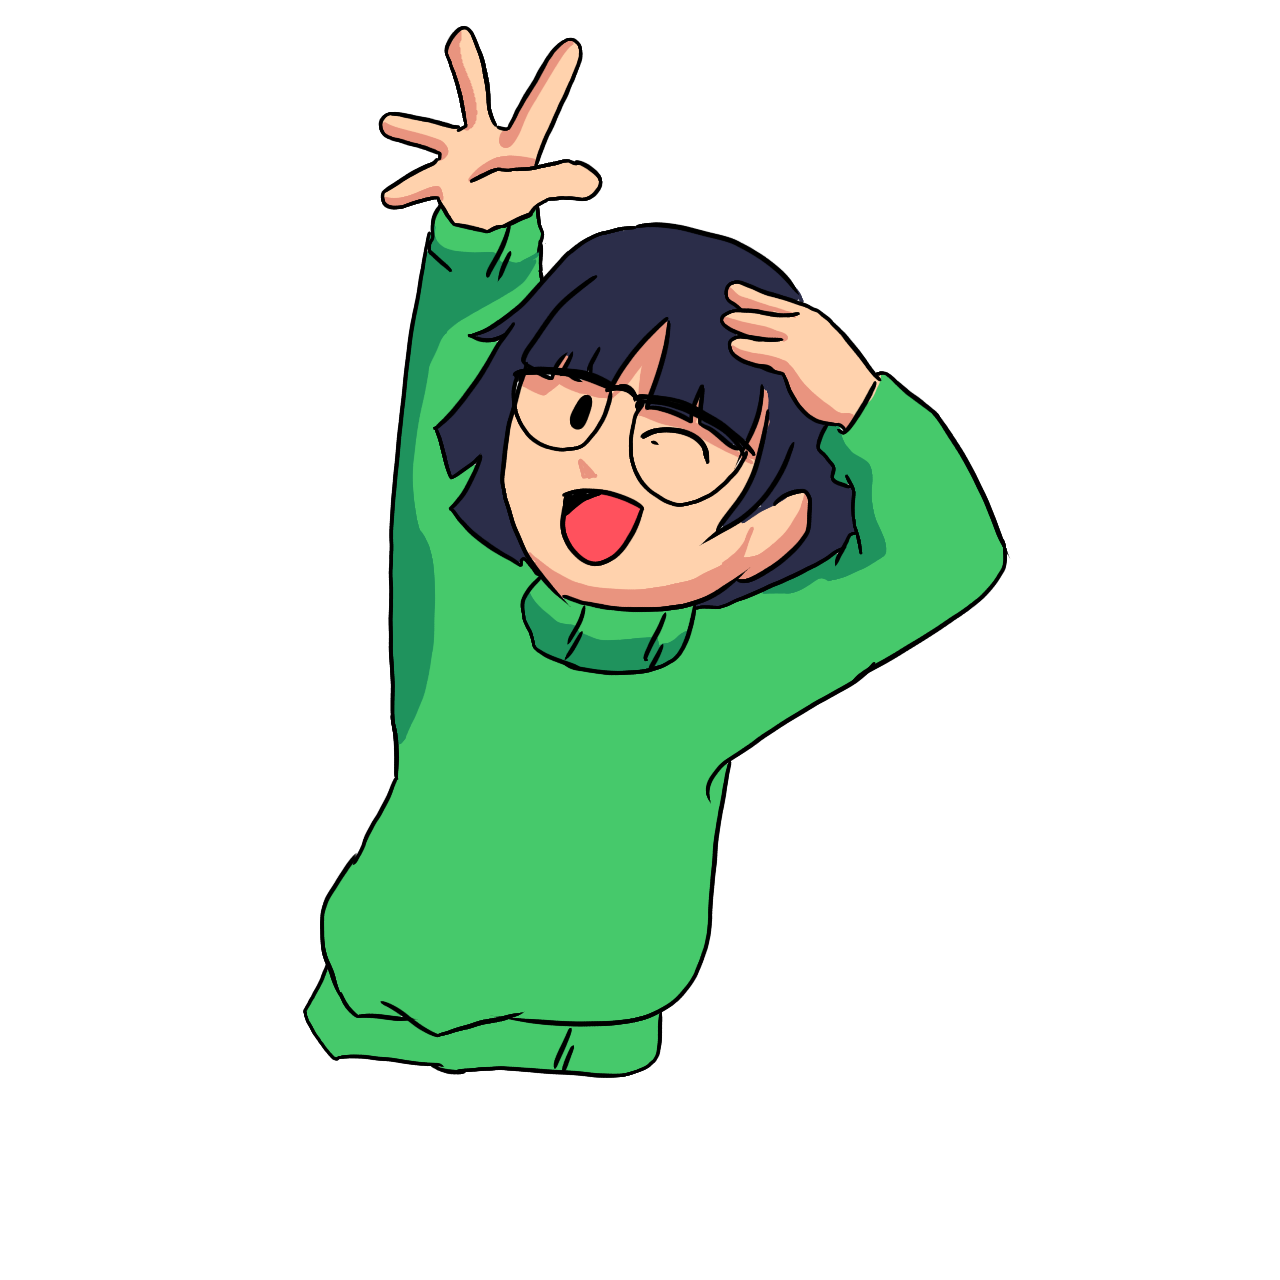
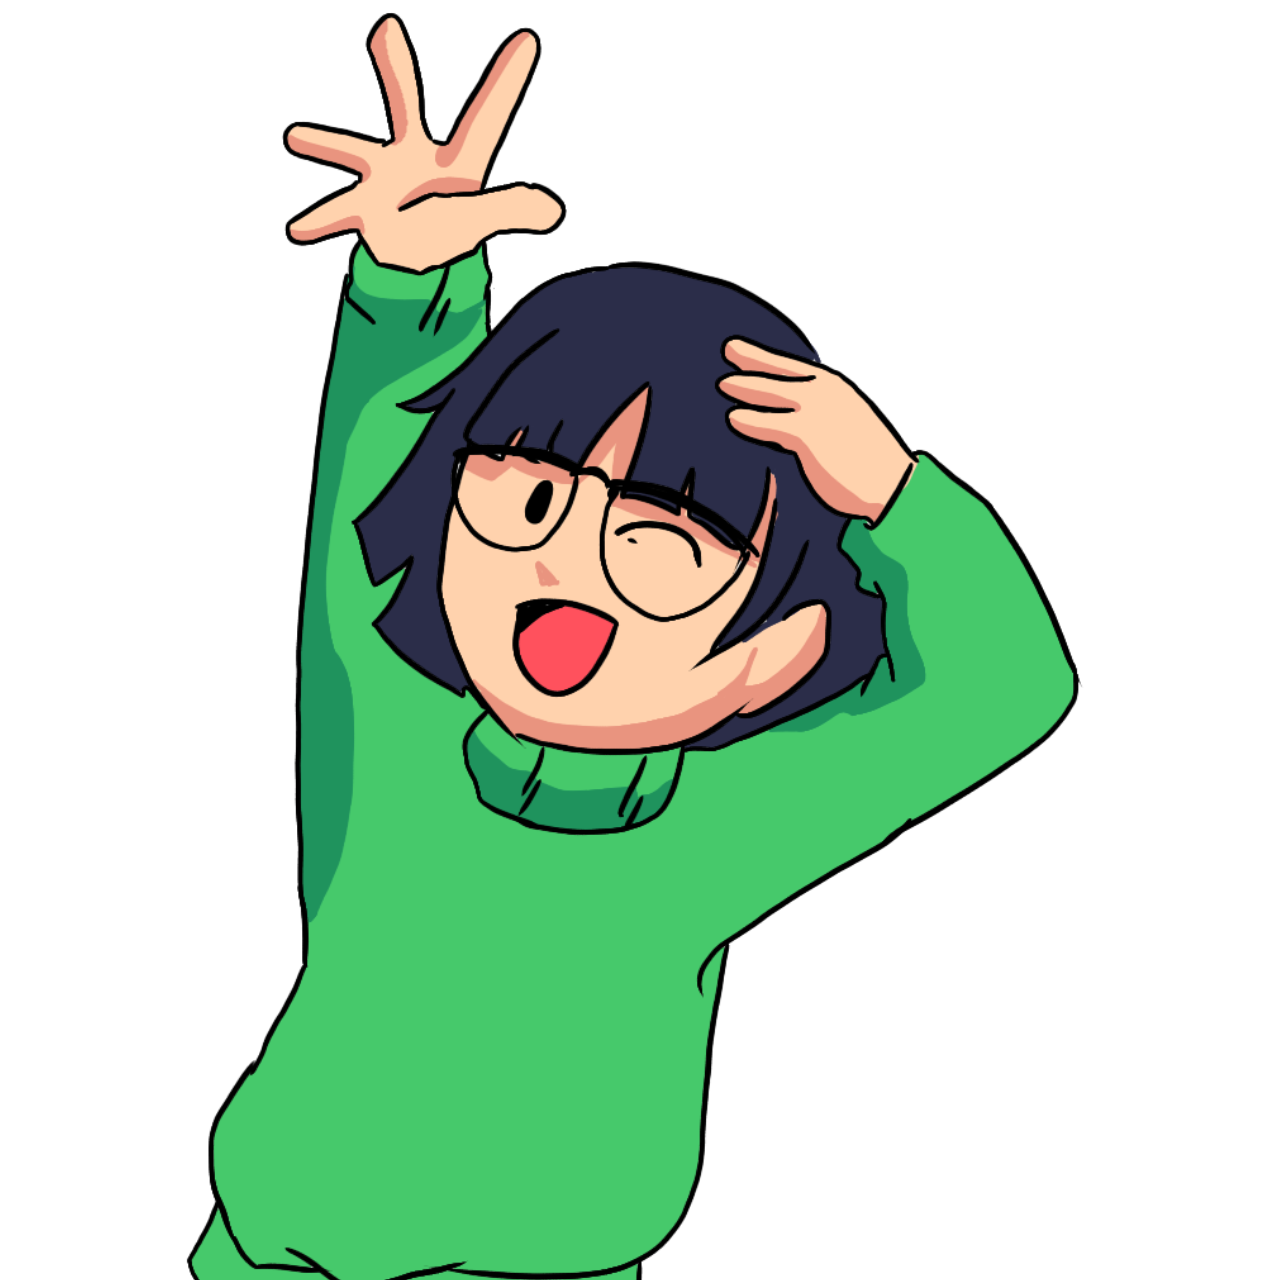
Fixing images

Changed region(s): [[0.125, 0.0, 0.8438, 1.0]]

diff --git a/style.css b/style.css
@@ -205,9 +205,9 @@ body{
     width: auto;
     max-width: none;
 
-    right: 0;
+    right: 20%;
     bottom: 0;
-    top: 20%;
+    top: 50%;
 
     object-fit: contain;
     object-position: bottom right;
